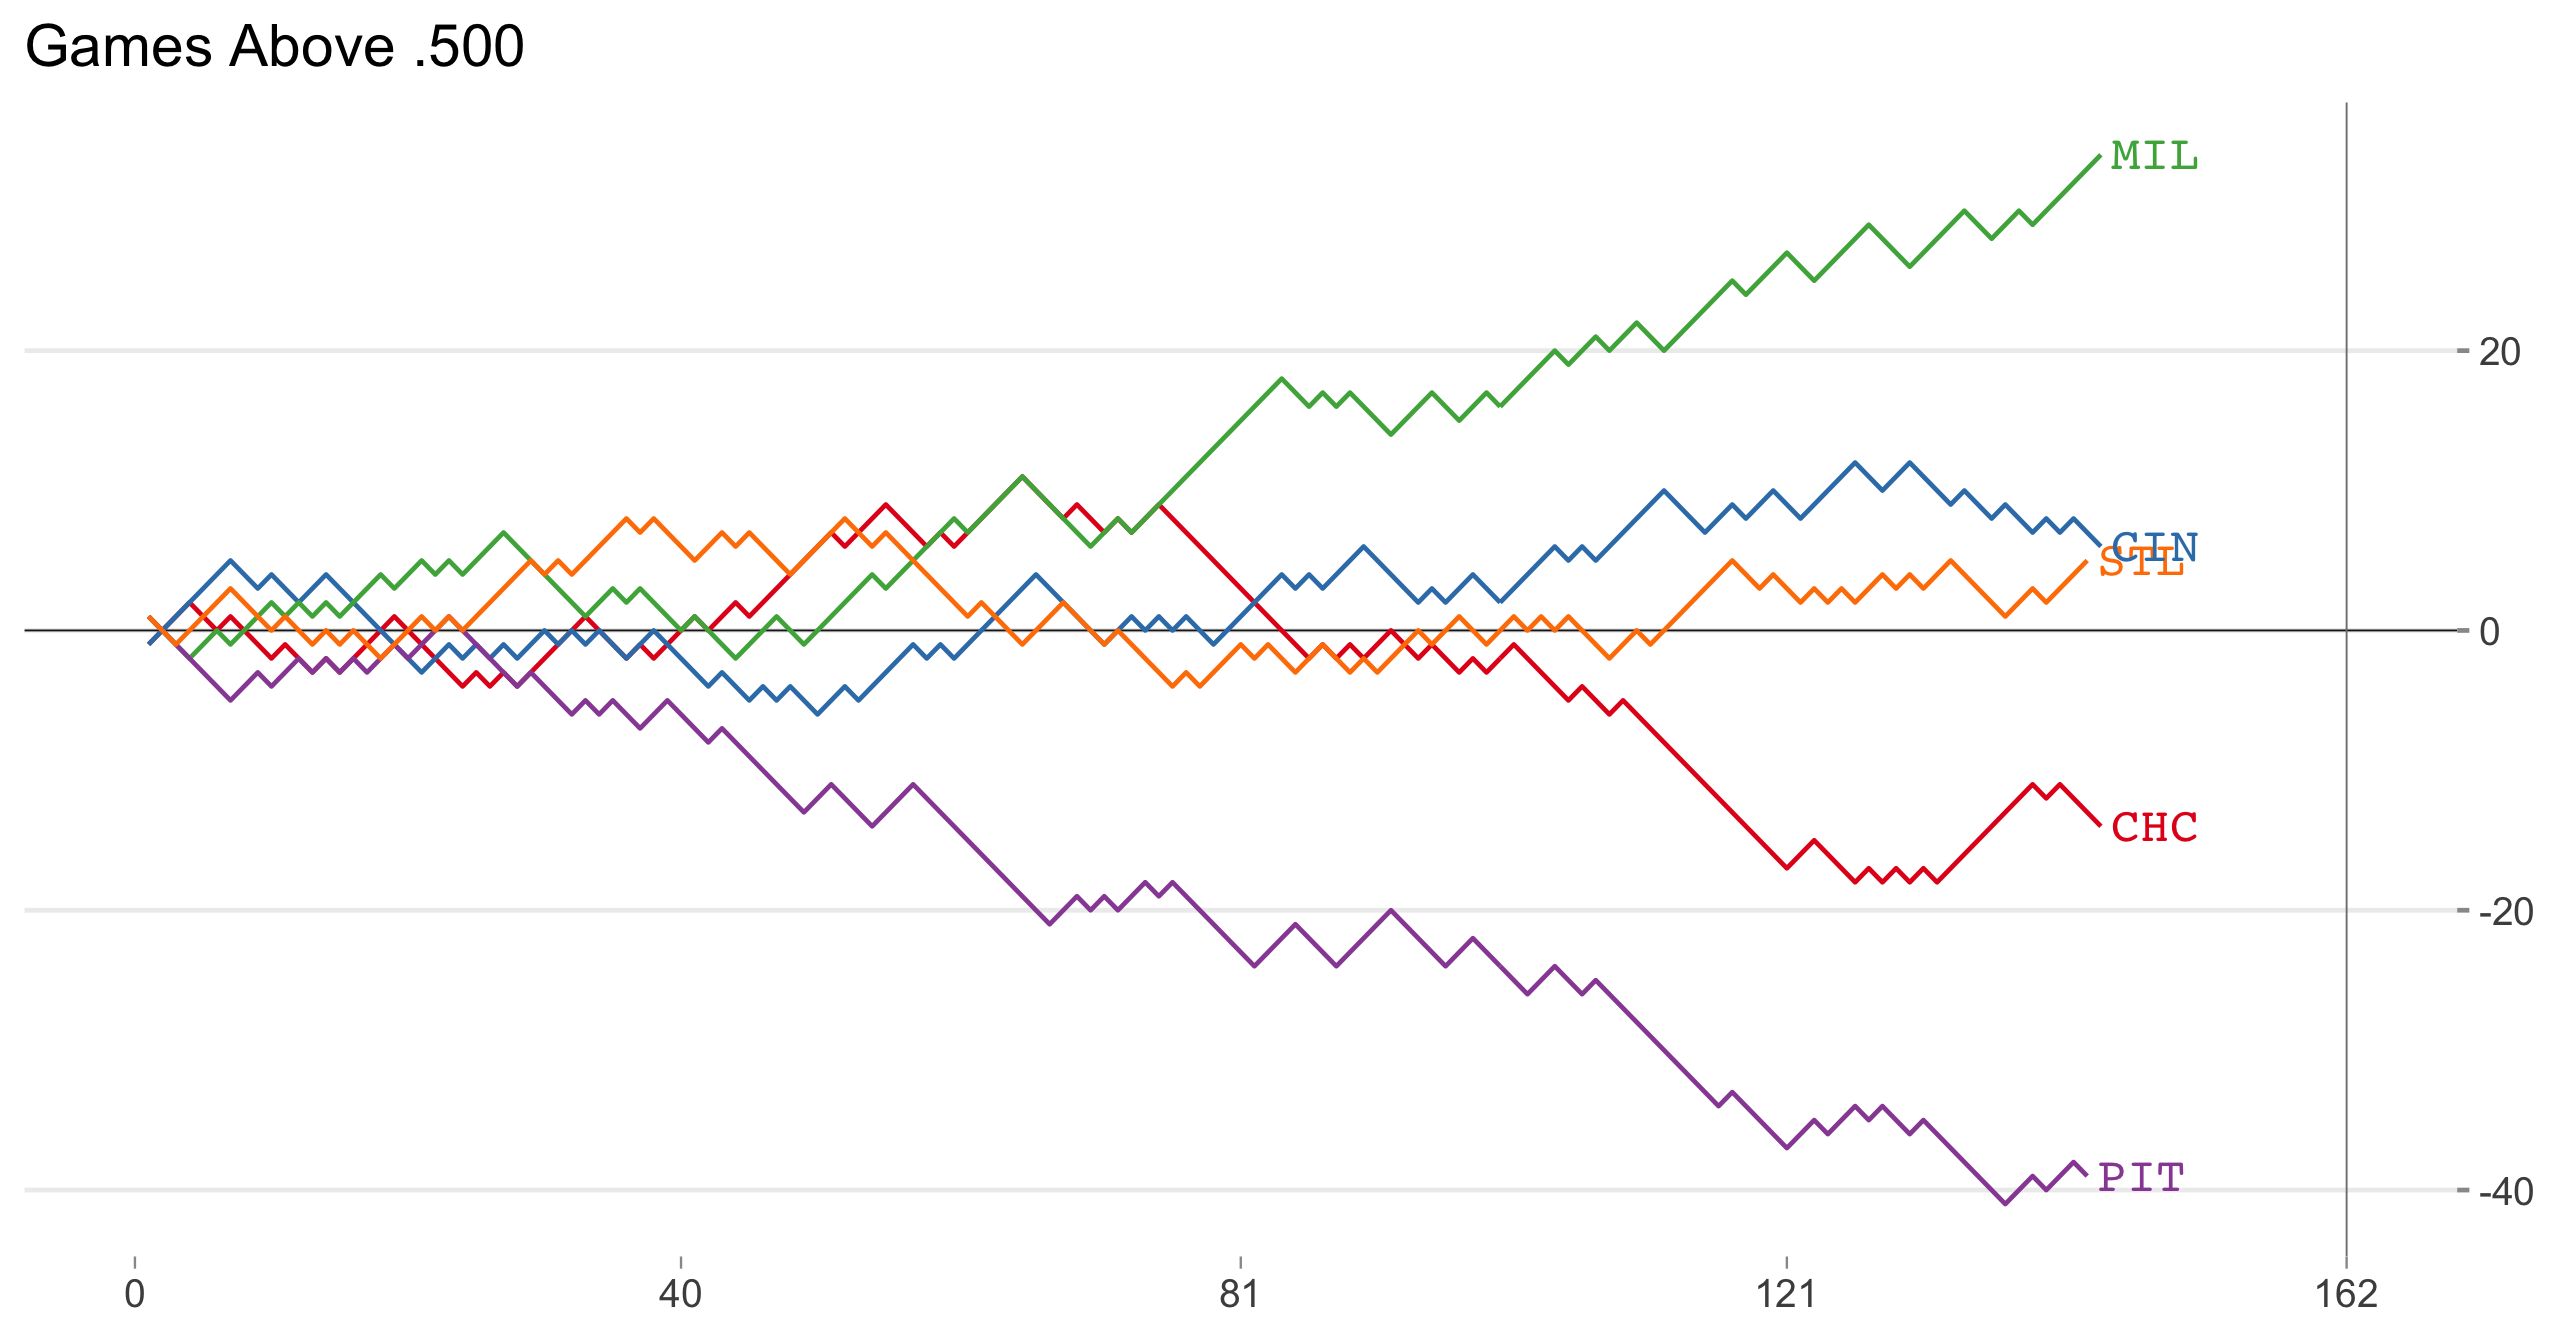
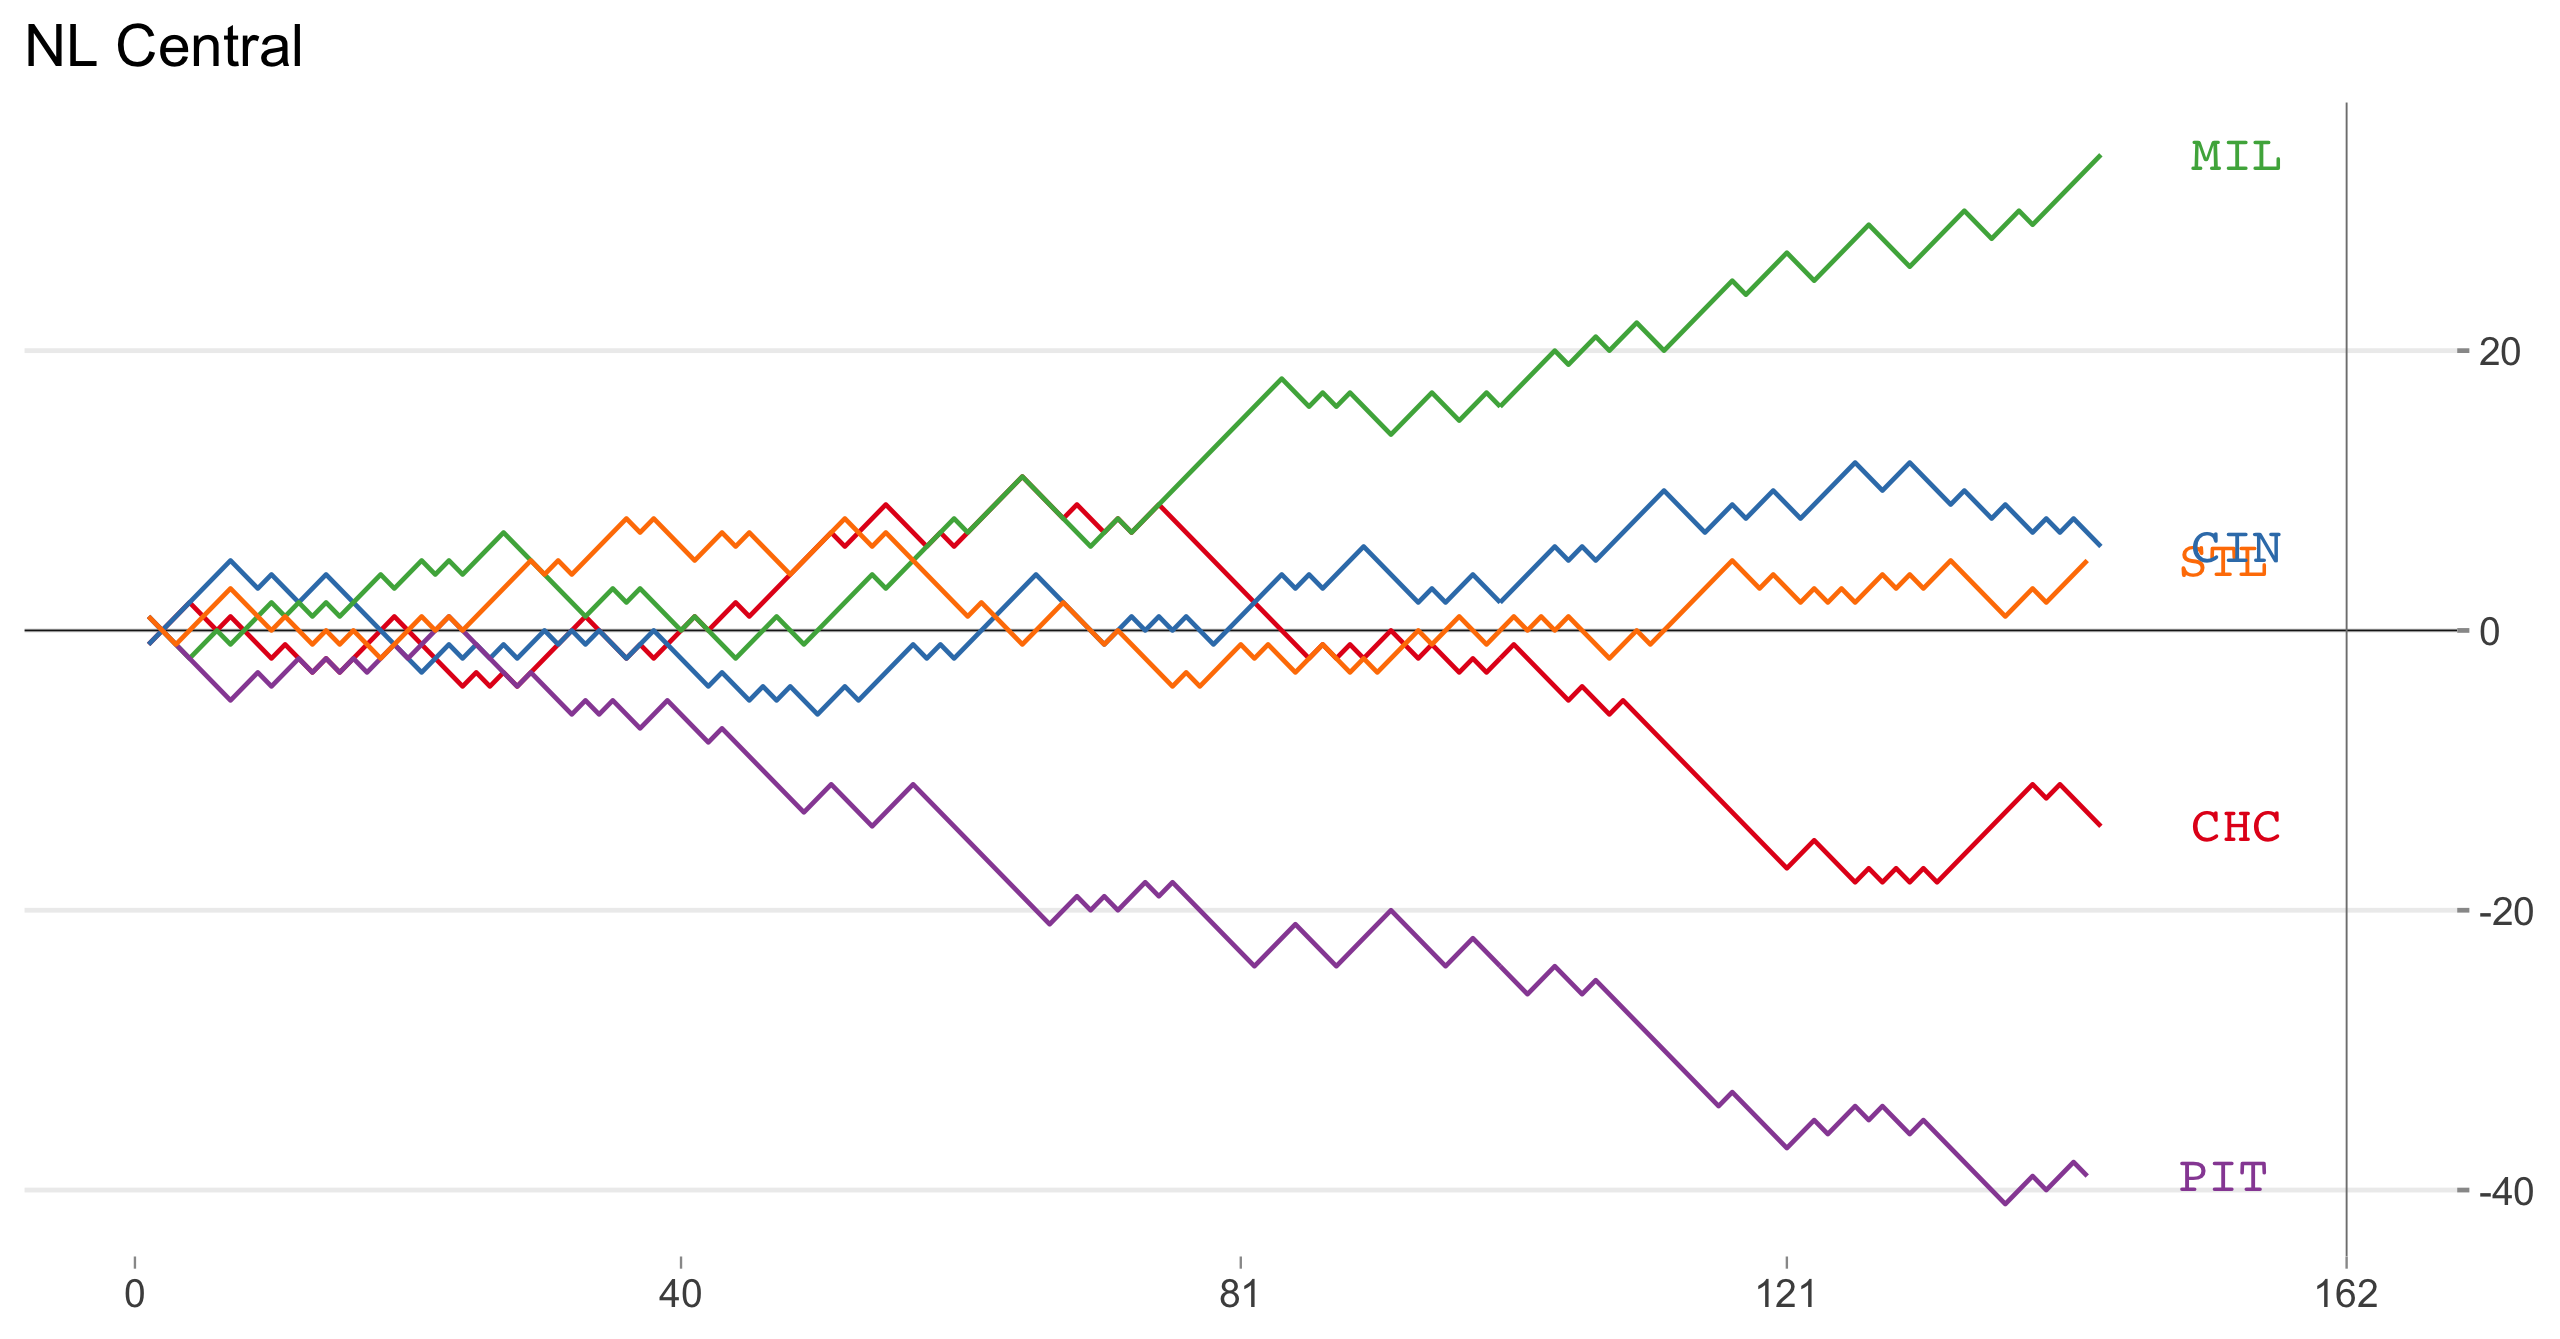
make plot_grid of standings

diff --git a/charts/baseball.md b/charts/baseball.md
@@ -622,29 +622,9 @@ html {
 </table>
 </div>
 
-### AL Central
+### Games Above .500
 
-![AL Central]({{ site.baseurl }}/plots/al_central_wins_losses.png)
-
-### AL East
-
-![AL East]({{ site.baseurl }}/plots/al_east_wins_losses.png)
-
-### AL West
-
-![AL West]({{ site.baseurl }}/plots/al_west_wins_losses.png)
-
-### NL Central
-
-![NL Central]({{ site.baseurl }}/plots/nl_central_wins_losses.png)
-
-### NL East
-
-![NL East]({{ site.baseurl }}/plots/nl_east_wins_losses.png)
-
-### NL West
-
-![NL West]({{ site.baseurl }}/plots/nl_west_wins_losses.png)
+![Divisions]({{ site.baseurl }}/plots/divisions_net_wins.png)
 
 ## Wild Card
 
